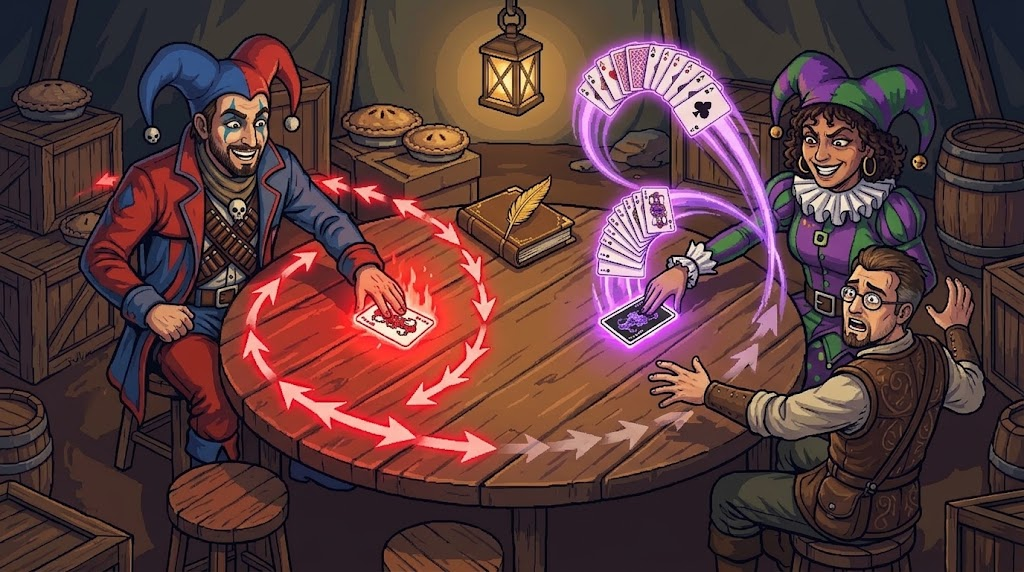
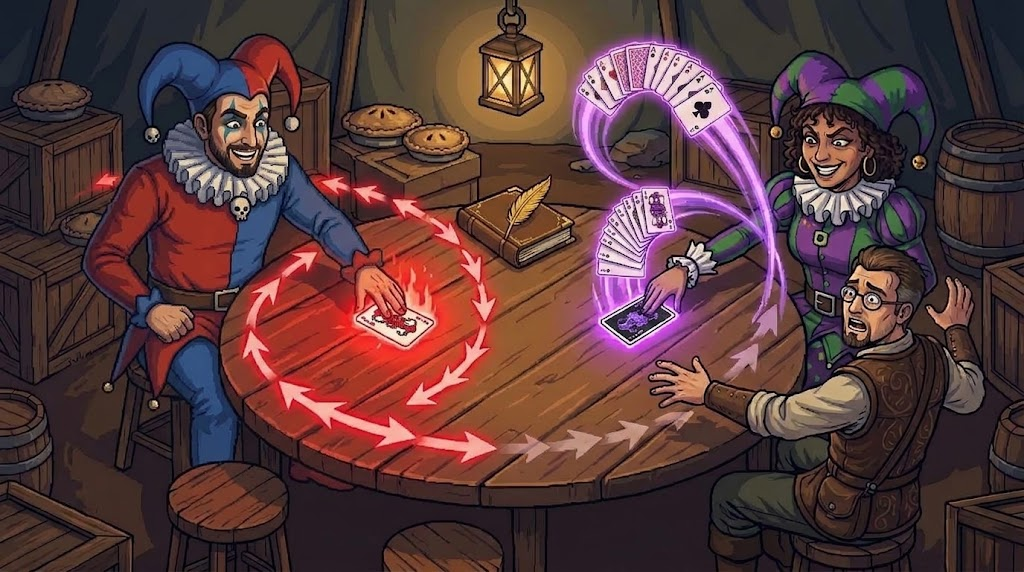
Twins' cutscene: fixed Gio's costume; tie their introduction to the laughter

diff --git a/src/campaign/story.ts b/src/campaign/story.ts
@@ -218,7 +218,7 @@ export const CINEMATICS: Record<string, Cinematic> = {
     {
       image: require('../../assets/story/twins-intro.jpg'),
       caption:
-        'Gio and Tati, the Chaos Twins. They never broke the old rules. They just added two cards nobody could predict.',
+        'The laughter belonged to Gio and Tati, the Chaos Twins. They never broke the old rules. They just added two cards nobody could predict.',
     },
     {
       image: require('../../assets/story/twins-jokers.jpg'),
